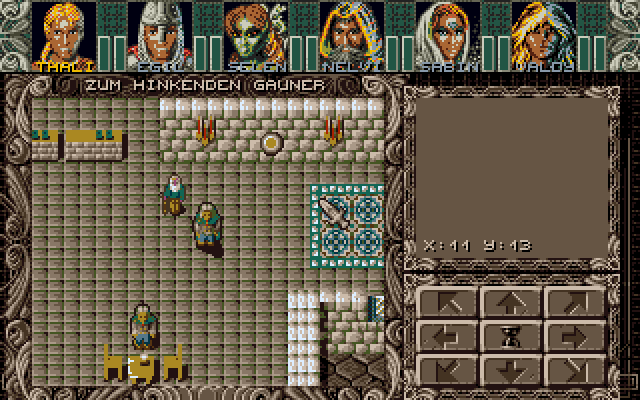
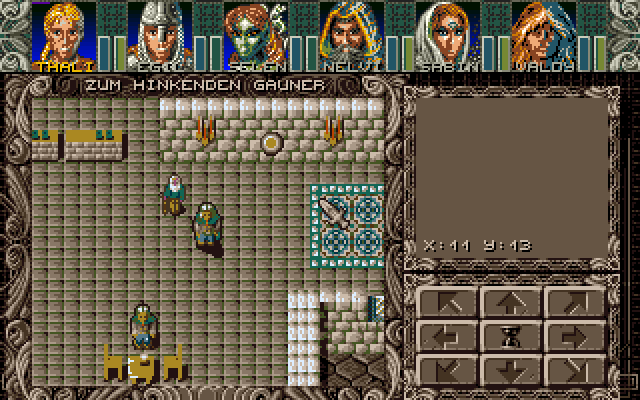
Atari ST POC: more UI palette colours for the portraits
Only the name colour of the active member and the LP bar get extra weight
in the palette of the status block. The other text colours used up most
of the free slots, so the skin tones of the portraits fell on one colour.

Claude-Session: https://claude.ai/code/session_017KUb8qa9fSBV81xJQCbgWy

diff --git a/AmbermoonST/tools/st_convert.py b/AmbermoonST/tools/st_convert.py
@@ -372,10 +372,10 @@ def main():
     for p in portraits:
         for v in p:
             weights[v] += 1
-    for c in (2, 4, 16, 19, 20, 21, 22):   # text colours (White, Lighter_blue, Yellow, reds, Light_green)
-        weights[c] += 2000
-    for c in (6,):                         # LP bar (7, 6) must differ from the SP bar (24, 23)
-        weights[c] += 4000
+    # Only the colours which the status block uses get extra weight, the other slots are left to the portraits
+    # (the skin tones need them). White is fixed anyway, Lighter_blue (names) is close to a UI grey.
+    weights[16] += 500                     # Yellow (name of the active member)
+    weights[6] += 4000                     # LP bar (7, 6) must differ from the SP bar (24, 23)
     ui16, ui_lut = make_palette(main_pal, weights, fixed=WHITE)
     write('UIPAL.BIN', palette_file(ui16, ui_lut))
     write('PORTR.BIN', b''.join(st_graphic([ui_lut[v] for v in p], 32, 34) for p in portraits))
